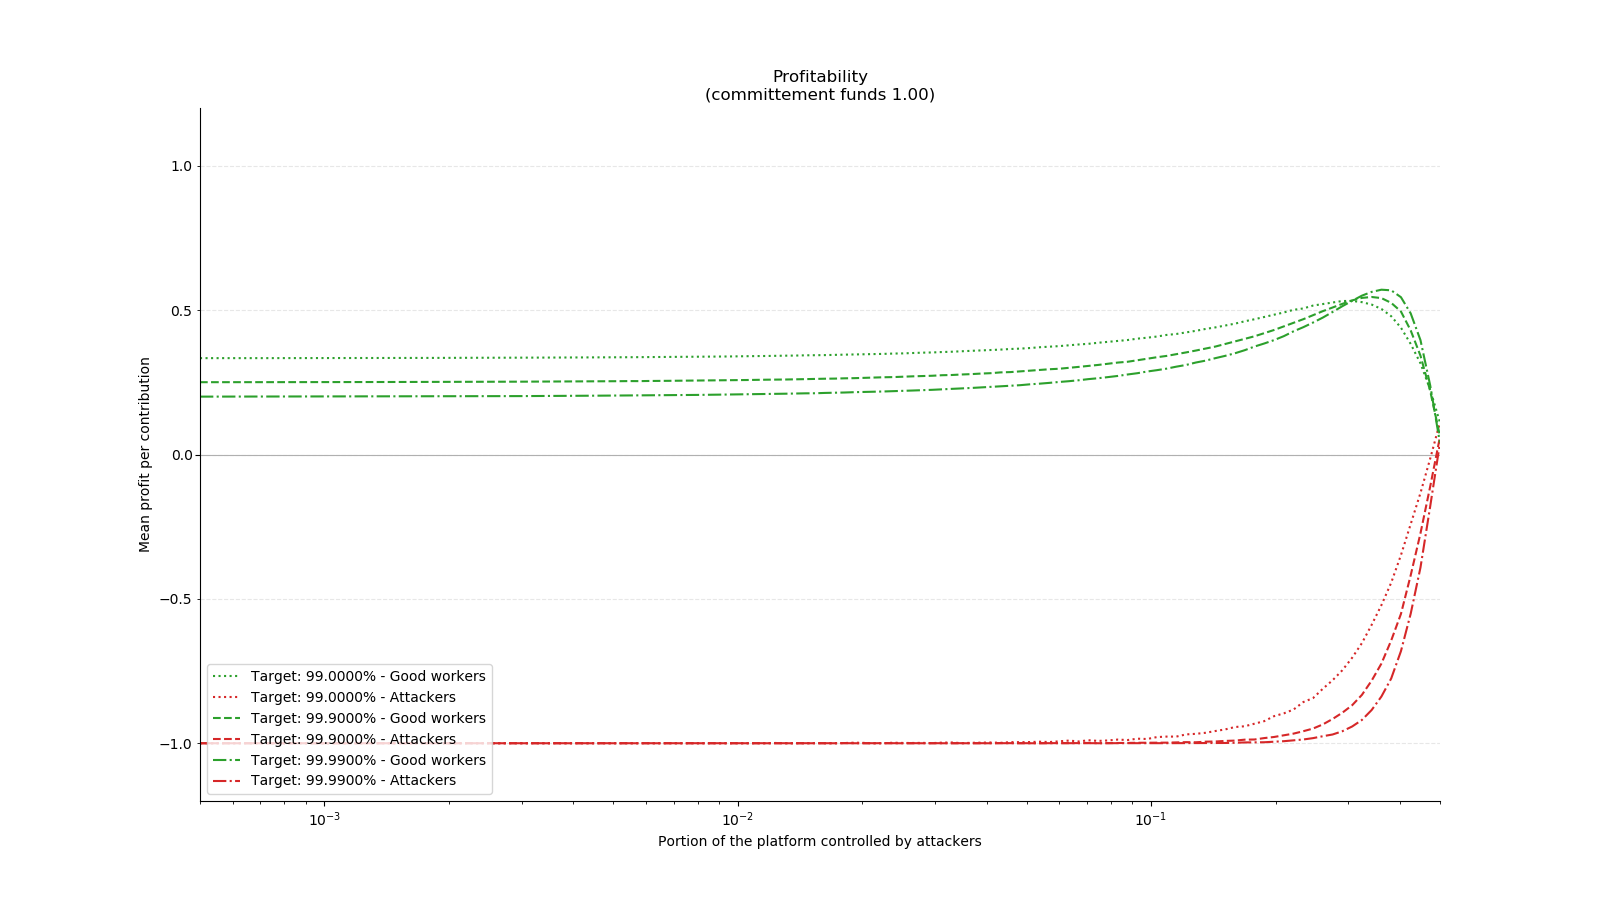
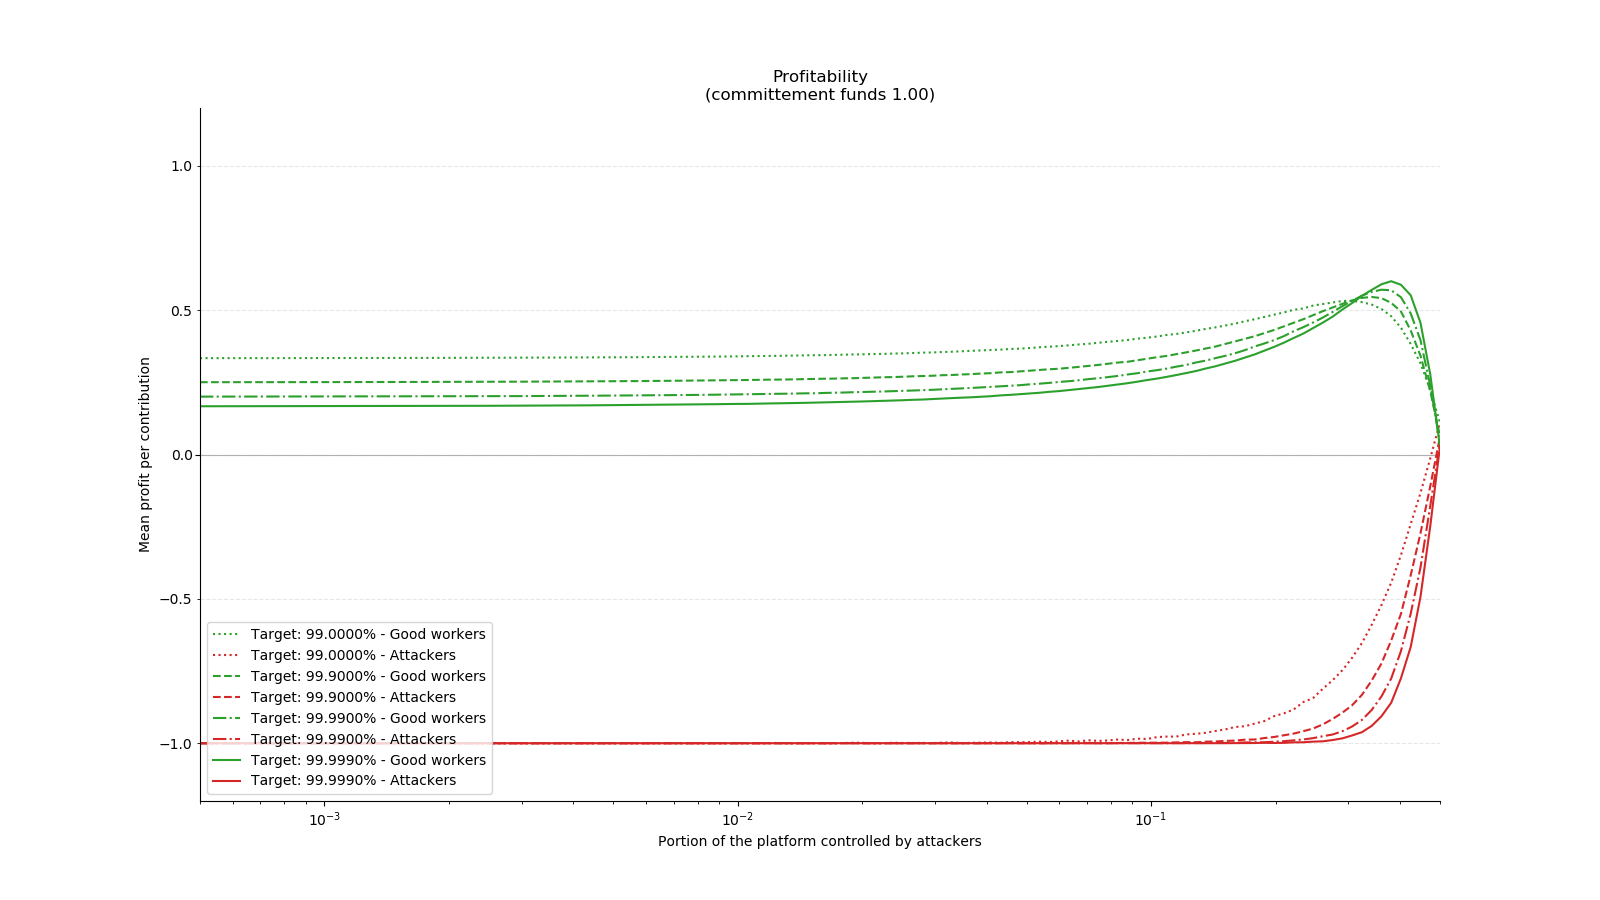
experiments

diff --git a/simulator/stats-profitability-gen.py b/simulator/stats-profitability-gen.py
@@ -20,7 +20,7 @@ settings.C_cost    = 1
 settings.C_CR      = lambda x: 0.9
 settings.V_funds   = None          # set by experience
 ###############################################################################
-targets = [0.99999] # [0.99, 0.999, 0.9999, 0.99999]
+targets = [0.99, 0.999, 0.9999, 0.99999]
 funds   = [0.0, 0.1, 0.2, 0.5, 1.0, 2.0]
 runs    = 100000
 sample  = 128
